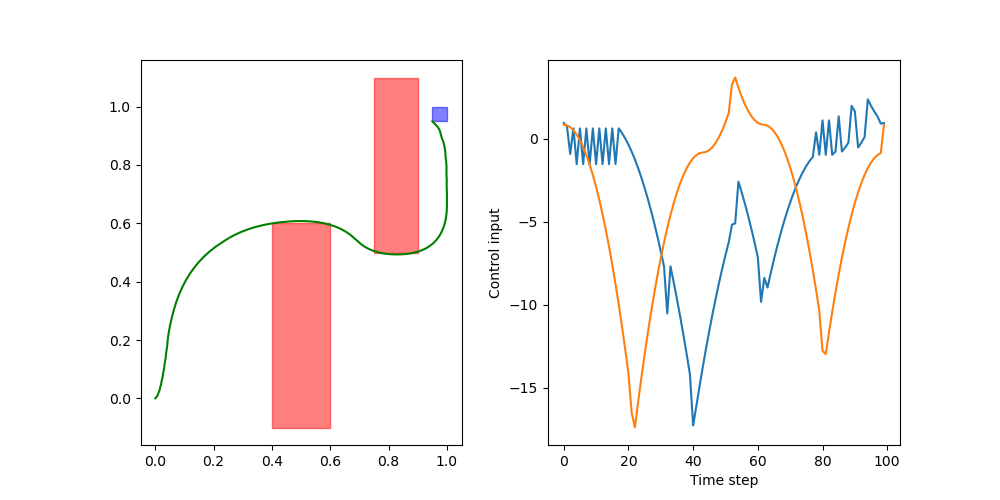
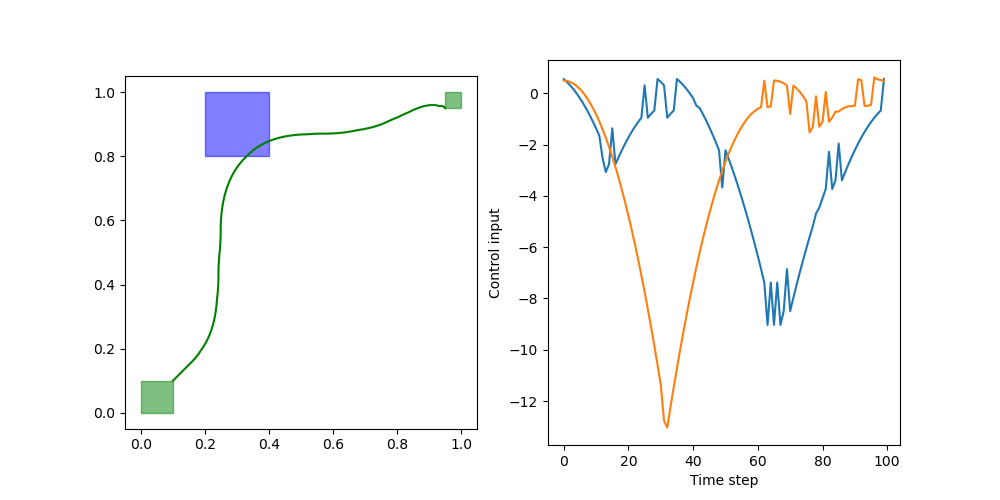
fixed equally difficult opt 2 problem

diff --git a/Planning/main.py b/Planning/main.py
@@ -5,6 +5,7 @@ import copy
 # reach-avoid gurobi optimization problem
 # might want to add integer variables later so we can use gurobi to solve the problem
 import gurobipy as gp
+import casadi as cs
 
 import os
 import sys
@@ -19,29 +20,30 @@ dt = 0.1    # time step size
 bigM = 1e4
 
 # specification
-X0 = HyperRectangle(np.array([0, 0, 0, 0]), np.array([0, 0, 0, 0]))
+X0 = HyperRectangle(np.array([0, 0, 0, 0]), np.array([0.1, 0.1, 0, 0]))
 Xf = HyperRectangle(np.array([0.95, 0.95, 0, 0]), np.array([1, 1, 0, 0]))
+XA = HyperRectangle(np.array([0.2, 0.8, -0.1, -0.1]), np.array([0.4, 1.0, 0.1, 0.1]))
 
 Obs = [HyperRectangle(np.array([0.4, -0.1, 0, 0]), np.array([0.6, 0.6, 0, 0])),
        HyperRectangle(np.array([0.75, 0.5, 0, 0]), np.array([0.9, 1.1, 0, 0]))]
 
 World = HyperRectangle(np.array([0, 0, -bigM, -bigM]), np.array([1, 1, bigM, bigM]))
 # robot
-robot = FreeFlyer()
+sp_robot = FreeFlyer()
 
 # create planner
-if False:
+if True:
     opt = gp.Model("prob1")
-    x_vars = opt.addMVar((N, robot.n_x), lb=-np.inf, ub=np.inf, name="x")
-    u_vars = opt.addMVar((N, robot.n_u), lb=-np.inf, ub=np.inf, name="u")
+    x_vars = opt.addMVar((N, sp_robot.n_x), lb=-np.inf, ub=np.inf, name="x")
+    u_vars = opt.addMVar((N, sp_robot.n_u), lb=-np.inf, ub=np.inf, name="u")
     alpha_vars = opt.addVar(lb=0, ub=1, name="alpha")
 
     for i in range(N):
-        opt.addConstrs((u_vars[i, j] >= alpha_vars*robot.U.lower_bounds[j] for j in range(2)))
-        opt.addConstrs((u_vars[i, j] <= alpha_vars*robot.U.upper_bounds[j] for j in range(2)))
+        opt.addConstrs((u_vars[i, j] >= alpha_vars*sp_robot.U.lower_bounds[j] for j in range(2)))
+        opt.addConstrs((u_vars[i, j] <= alpha_vars*sp_robot.U.upper_bounds[j] for j in range(2)))
 
     # constraints
-    opt.addConstrs((x_vars[i+1,:] == robot.step(x_vars[i, :], u_vars[i, :], dt) for i in range(N-1)))
+    opt.addConstrs((x_vars[i+1,:] == sp_robot.step(x_vars[i, :], u_vars[i, :], dt) for i in range(N-1)))
     opt.addConstrs((x_vars[i, :] >= World.lower_bounds for i in range(N)))
     opt.addConstrs((x_vars[i, :] <= World.upper_bounds for i in range(N)))
 
@@ -49,16 +51,18 @@ if False:
     opt.addConstr(x_vars[0, :] <= X0.upper_bounds)
     opt.addConstr(x_vars[-1, :] >= Xf.lower_bounds)
     opt.addConstr(x_vars[-1, :] <= Xf.upper_bounds)
+    opt.addConstr(x_vars[int(N/2), :] >= XA.lower_bounds)
+    opt.addConstr(x_vars[int(N/2), :] <= XA.upper_bounds)
 
-    for obs in Obs:
-        z_vars = opt.addMVar((N, 4), vtype=gp.GRB.BINARY, name="z")
-        for i in range(N):
-            # x_vars[i,0:2] should be outside one of the faces of the obstacle
-            opt.addConstr(x_vars[i,0] <= obs.lower_bounds[0] + bigM*(1-z_vars[i,0]))
-            opt.addConstr(x_vars[i,0] >= obs.upper_bounds[0] - bigM*(1-z_vars[i,1]))
-            opt.addConstr(x_vars[i,1] <= obs.lower_bounds[1] + bigM*(1-z_vars[i,2]))
-            opt.addConstr(x_vars[i,1] >= obs.upper_bounds[1] - bigM*(1-z_vars[i,3]))
-            opt.addConstr(gp.quicksum(z_vars[i,:]) >= 1)
+    # for obs in Obs:
+    #     z_vars = opt.addMVar((N, 4), vtype=gp.GRB.BINARY, name="z")
+    #     for i in range(N):
+    #         # x_vars[i,0:2] should be outside one of the faces of the obstacle
+    #         opt.addConstr(x_vars[i,0] <= obs.lower_bounds[0] + bigM*(1-z_vars[i,0]))
+    #         opt.addConstr(x_vars[i,0] >= obs.upper_bounds[0] - bigM*(1-z_vars[i,1]))
+    #         opt.addConstr(x_vars[i,1] <= obs.lower_bounds[1] + bigM*(1-z_vars[i,2]))
+    #         opt.addConstr(x_vars[i,1] >= obs.upper_bounds[1] - bigM*(1-z_vars[i,3]))
+    #         opt.addConstr(gp.quicksum(z_vars[i,:]) >= 1)
 
     # objective
     opt.setObjective(alpha_vars, gp.GRB.MINIMIZE)
@@ -87,8 +91,9 @@ else:
 fig, axs = plt.subplots(1,2, figsize=(10, 5))
 axs[0].plot(x_ff[:, 0], x_ff[:, 1], 'g-')
 X0.plot(axs[0], color='green', alpha=0.5)
-Xf.plot(axs[0], color='blue', alpha=0.5)
-[obs.plot(axs[0], color='red', alpha=0.5) for obs in Obs]
+Xf.plot(axs[0], color='green', alpha=0.5)
+XA.plot(axs[0], color='blue', alpha=0.5)
+# [obs.plot(axs[0], color='red', alpha=0.5) for obs in Obs]
 axs[0].set_aspect('equal', adjustable='box')
 
 axs[1].plot(u_ff[:,0])
@@ -111,27 +116,37 @@ def u_fbl(x, v):
     v_uw = np.zeros((uw_robot.n_u,))
     v_uw[0:2] = v[0:2]
     # compute the control input
-    u_fbl = np.linalg.pinv(uw_robot.gx(x_uw)[[0,1,6,7],0:2])@(robot.fx(x) + robot.gx(x)@v - uw_robot.fx(x_uw)[[0,1,6,7]])
+    u_fbl = np.linalg.pinv(uw_robot.gx(x_uw)[[0,1,6,7],0:2])@(sp_robot.fx(x) + sp_robot.gx(x)@v - uw_robot.fx(x_uw)[[0,1,6,7]])
     u_fbl = np.concatenate((u_fbl, np.zeros((4,1))))
     return u_fbl
 
+def u_fbl_cs(x, v):
+    x_uw = cs.blockcat([[x[0], x[1], 0, 0, 0, 0, x[2], x[3], 0, 0, 0, 0]])
+    v_uw = cs.blockcat([[v[0], v[1], 0, 0, 0, 0]])
+    fx = uw_robot.fx(x_uw.T)[[0,1,6,7]]
+    gx = uw_robot.gx(x_uw.T)[[0,1,6,7],0:2]
+    gx_inv = cs.DM(np.linalg.pinv(np.array(gx)))
+    u_fbl = cs.mtimes(gx_inv, sp_robot.fx(x) + sp_robot.gx(x)@v - fx)
+    return u_fbl
+
 x = copy.deepcopy(x_ff[0, :])
-x_hist = np.zeros((N, uw_robot.n_x))
-u_hist = np.zeros((N, uw_robot.n_u))
+x_hist = np.zeros((N, sp_robot.n_x))
+u_hist = np.zeros((N, sp_robot.n_u))
 for i in range(N):
-    u = u_fbl(x, u_ff[i, :])
-    x = uw_robot.step(np.concatenate((x[0:2],np.zeros((4,)),x[2:4],np.zeros((4,)))), u, dt)
+    u = u_fbl(x, u_ff[i, :])[0:2]
+    x = uw_robot.step(np.concatenate((x[0:2],np.zeros((4,)),x[2:4],np.zeros((4,)))), 
+                      np.concatenate((u,np.zeros((4,1)))), dt)[[0,1,6,7]]
     x = np.array(x).squeeze()
     u = np.array(u).squeeze()
     x_hist[i, :] = x
     u_hist[i, :] = u
-    x = np.concatenate((x[0:2],x[6:8]))
 
 fig, axs = plt.subplots(1,2, figsize=(10, 5))
 axs[0].plot(x_hist[:, 0], x_hist[:, 1], 'g-')
 X0.plot(axs[0], color='green', alpha=0.5)
-Xf.plot(axs[0], color='blue', alpha=0.5)
-[obs.plot(axs[0], color='red', alpha=0.5) for obs in Obs]
+Xf.plot(axs[0], color='green', alpha=0.5)
+XA.plot(axs[0], color='blue', alpha=0.5)
+# [obs.plot(axs[0], color='red', alpha=0.5) for obs in Obs]
 axs[0].set_aspect('equal', adjustable='box')
 axs[1].plot(u_hist[:,0])
 axs[1].plot(u_hist[:,1])
@@ -141,7 +156,7 @@ plt.savefig("figures/sp_trajectory_uw.png")
 
 
 u_max = np.max(np.abs(u_hist), axis=0)
-print(f"Alpha for uw: {np.max(u_max/uw_robot.U.upper_bounds)}")
+print(f"Alpha for uw: {np.max(u_max/uw_robot.U.upper_bounds[0:2])}")
 
 # So now we have to find \phi (for now deltaT) such that
 # alpha for uw is equal to alpha for the free flyer
@@ -159,8 +174,8 @@ if False:
     dt_vars.Start = dt
 
     for i in range(N):
-        opt.addConstrs((u_vars[i, j] >= alpha*(robot.U.lower_bounds[j]-u_fbl(x_vars[i,:],u_vars[i,:])[j]) for j in range(2)))
-        opt.addConstrs((u_vars[i, j] <= alpha*(robot.U.upper_bounds[j]-u_fbl(x_vars[i,:],u_vars[i,:])[j]) for j in range(2)))
+        opt.addConstrs((u_vars[i, j] >= alpha*(uw_robot.U.lower_bounds[j]-u_fbl(x_vars[i,:],u_vars[i,:])[j]) for j in range(2)))
+        opt.addConstrs((u_vars[i, j] <= alpha*(uw_robot.U.upper_bounds[j]-u_fbl(x_vars[i,:],u_vars[i,:])[j]) for j in range(2)))
 
     # constraints
     opt.addConstrs((x_vars[i+1,:] == uw_robot.step(x_vars[i, :], u_vars[i, :], dt_vars) for i in range(N-1)))
@@ -202,6 +217,57 @@ if False:
     dt_uw = dt_vars.X
     save_vars = {'x_uw': x_uw, 'u_uw': u_uw, 'dt_uw': dt_uw}
     np.savez("solutions/uw_solution.npz", **save_vars)
+elif True:
+    # gradient-based optimization with casadi
+    ocp = cs.Opti()
+    x_vars = ocp.variable(4, N)
+    u_vars = ocp.variable(2, N)
+    dt_vars = ocp.variable(1)
+
+    ocp.set_initial(x_vars, x_hist.T)
+    ocp.set_initial(u_vars, u_hist.T)
+    ocp.set_initial(dt_vars, 0.01)
+
+    ocp.subject_to(dt_vars >= 0)
+
+    for i in range(N):
+        ocp.subject_to(u_fbl_cs(x_vars[:,i],u_vars[:,i])[0:2] >= alpha*(uw_robot.U.lower_bounds[0:2]))
+        ocp.subject_to(u_fbl_cs(x_vars[:,i],u_vars[:,i])[0:2] <= alpha*(uw_robot.U.upper_bounds[0:2]))
+
+    # constraints
+    for i in range(N-1):
+        ocp.subject_to(x_vars[:,i+1] == sp_robot.step(x_vars[:,i], u_vars[:,i], dt_vars))
+    
+    ocp.subject_to(x_vars[:,0] >= X0.lower_bounds)
+    ocp.subject_to(x_vars[:,0] <= X0.upper_bounds)
+    ocp.subject_to(x_vars[:,-1] >= Xf.lower_bounds)
+    ocp.subject_to(x_vars[:,-1] <= Xf.upper_bounds)
+    ocp.subject_to(x_vars[:,int(N/2)] >= XA.lower_bounds)
+    ocp.subject_to(x_vars[:,int(N/2)] <= XA.upper_bounds)
+
+    #TODO: add obstacle avoidance constraints
+
+    # objective
+    cost_eq = dt_vars
+    # for i in range(N):
+    #     cost_eq += (u_vars[:,i]).T@(u_vars[:,i])
+    ocp.minimize(cost_eq)
+    opts = {'ipopt.print_level': 0, 'print_time': 0, 'ipopt.sb': 'yes',
+            'verbose':False, 'ipopt.tol': 1e-6, 'ipopt.max_iter': 1000}
+    ocp.solver('ipopt',opts)
+
+    try:
+        sol = ocp.solve()
+        x_uw = sol.value(x_vars).T
+        u_uw = sol.value(u_vars).T
+        dt_uw = sol.value(dt_vars)
+        print(f"Solution found")
+    except Exception as e:
+        print(f"Solution not found: {e}")
+        print(e)
+        x_uw = np.zeros_like(x_ff)
+        u_uw = np.zeros_like(u_ff)
+        dt_uw = dt
 else:
     # load the solution
     data = np.load("solutions/uw_solution.npz")
@@ -209,17 +275,27 @@ else:
     u_uw = data['u_uw']
     dt_uw = data['dt_uw']
 
+u_uw_fbl = np.array([u_fbl(x_uw[i,:],u_uw[i,:])[0:2].squeeze() for i in range(N)])
+u_max = np.max(np.abs(u_uw_fbl), axis=0)
+print(f"Replanned alpha for uw: {np.max([u_max/(uw_robot.U.upper_bounds[0:2]) for i in range(N)])}")
+print(f"Replanned dt for uw: {dt_uw}")
+
 # plot the trajectory
 fig, axs = plt.subplots(1,2, figsize=(10, 5))
-axs[0].plot(x_ff[:, 0], x_ff[:, 1], 'g-')
-axs[0].plot(x_uw[:, 0], x_uw[:, 1], 'c-')
+axs[0].plot(x_ff[:, 0], x_ff[:, 1], 'g-', label='sp trajectory')
+axs[0].plot(x_uw[:, 0], x_uw[:, 1], 'c-', label='uw trajectory')
 X0.plot(axs[0], color='green', alpha=0.5)
-Xf.plot(axs[0], color='blue', alpha=0.5)
-[obs.plot(axs[0], color='red', alpha=0.5) for obs in Obs]
+Xf.plot(axs[0], color='green', alpha=0.5)
+XA.plot(axs[0], color='blue', alpha=0.5)
+axs[0].legend()
+# [obs.plot(axs[0], color='red', alpha=0.5) for obs in Obs]
 axs[0].set_aspect('equal', adjustable='box')
 
-axs[1].plot(u_uw[:,0])
-axs[1].plot(u_uw[:,1])
+axs[1].plot(u_uw[:,0],'r',label='effective sp input')
+axs[1].plot(u_uw[:,1],'r--')
+axs[1].plot(u_uw_fbl[:,0],'b',label='effective uw input')
+axs[1].plot(u_uw_fbl[:,1],'b--')
 axs[1].set_xlabel('Time step')
 axs[1].set_ylabel('Control input')
+axs[1].legend()
 plt.savefig("figures/sp_uw_trajectory.png")

diff --git a/Utilities/Robots.py b/Utilities/Robots.py
@@ -44,13 +44,14 @@ class FreeFlyer(Robot):
     def __init__(self):
         super().__init__(n_x=4, n_u=2)
         # dynamics in the form: dx = f(x) + g(x)u
+        self.mass = 16.8
         self.fx = lambda x: np.array([[0,0,1,0],
                                       [0,0,0,1],
                                       [0,0,0,0],
                                       [0,0,0,0]])@x
-        self.gx = lambda x: np.array([[0, 0], [0, 0], [1, 0], [0, 1]])
+        self.gx = lambda x: np.array([[0, 0], [0, 0], [1/self.mass, 0], [0, 1/self.mass]])
 
-        self.U = HyperRectangle(np.array([-1, -1]), np.array([1, 1]))
+        self.U = HyperRectangle(np.array([-3, -3]), np.array([3, 3]))
 
 
 class BlueROV(Robot):
